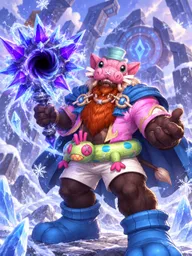
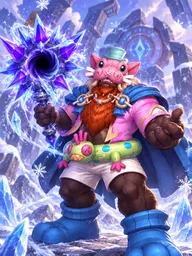
Publish corrected Juwoyaer portrait

diff --git a/docs/presentation.js b/docs/presentation.js
@@ -3,7 +3,7 @@ import { DATA, HERO_BY_ID, AFFIX_NAMES, TEMPLATE_BY_ID, baseItemStats } from './
 export const esc = value => String(value ?? '').replace(/[&<>"']/g, c => ({'&':'&amp;','<':'&lt;','>':'&gt;','"':'&quot;',"'":'&#39;'}[c]));
 export const num = value => Number(value).toLocaleString('zh-CN', {maximumFractionDigits:1});
 export const percent = value => Number(value*100).toLocaleString('zh-CN',{maximumFractionDigits:4}) + '%';
-export const art = (id, small = false) => `./art/${id}${['jinnailuo','dunjigaoshou'].includes(id)?'.svg':(small?'-battle':'')+'.webp'}?v=20260922`;
+export const art = (id, small = false) => `./art/${id}${['jinnailuo','dunjigaoshou'].includes(id)?'.svg':(small?'-battle':'')+'.webp'}?v=${id==='juwoyaer'?'20260922-corrected':'20260922'}`;
 export const series = tier => DATA.equipment.tiers[tier - 1]?.name || '旧藏';
 export const itemName = item => item.legacyName || TEMPLATE_BY_ID[item.templateId].name;
 export const itemStatsText = item => Object.entries(baseItemStats(item)).filter(([,v]) => v).map(([key,value]) => `${AFFIX_NAMES[key]} ${num(value)}`).join(' · ');
